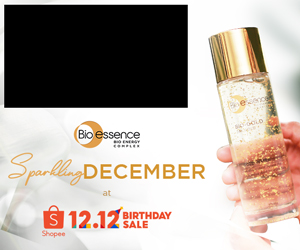
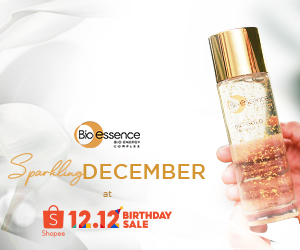
wfse

diff --git a/idn/preview/m.popbela/masthead/bioessence/index.html b/idn/preview/m.popbela/masthead/bioessence/index.html
@@ -610,11 +610,9 @@ height="0" width="0" style="display:none;visibility:hidden"></iframe></noscript>
         
         <div style="position: relative; width: 300px; height: 250px; display: block; left: 0; right: 0; margin: auto;">
             <a href="https://shopee.co.id/bioessenceofficialstore?utm_source=google&utm_medium=seller&utm_campaign=s63822287_SS_ID_OTHR_mathead&utm_content=bio12" target="_blank" style="position: absolute; display: block; width: 300px; height: 250px;"></a>
-<!--
-            <video id="mastV" controls muted playsinline preload="metadata" style="width: 206px; height: 116px; position: absolute; right: 15px; top: 15px; z-index: 1;">
-                <source src="https://ads.idntimes.com/ads-assets/client/safi/video-min.mp4" type="video/mp4">
+            <video id="mastV" controls muted playsinline preload="metadata" style="width: 183px; height: 103px; position: absolute; left: 6px; top: 6px; z-index: 1;">
+                <source src="https://ads.idntimes.com/ads-assets/client/bioessence/video-min.mp4" type="video/mp4">
             </video>
--->
             <img src="300x250-tvc.jpg" style="max-width: 300px; height: 250px;">
         </div>
         <script>

diff --git a/idn/preview/popbela/fsto/bioessence/index.html b/idn/preview/popbela/fsto/bioessence/index.html
@@ -554,11 +554,9 @@ height="0" width="0" style="display:none;visibility:hidden"></iframe></noscript>
              
     <div style="height: 250px; width: 970px; position: relative; left: 0; right: 0; margin: auto; display: block">
         <a href="https://shopee.co.id/bioessenceofficialstore?utm_source=google&utm_medium=seller&utm_campaign=s63822287_SS_ID_OTHR_mathead&utm_content=bio12" target="_blank" style="position: absolute; width: 970px; height: 250px;"></a>
-<!--
         <video controls autoplay muted playsinline preload="metadata" style="width: 404px; height: 228px; position: absolute; left: 10px; top: 13px; z-index: 1;">
-            <source src="https://ads.idntimes.com/ads-assets/client/safi/video-min.mp4" type="video/mp4">
+            <source src="https://ads.idntimes.com/ads-assets/client/bioessence/video-min.mp4" type="video/mp4">
         </video>
--->
         <img src="images/970x250.jpg" alt="leaderboard">
     </div>
     
